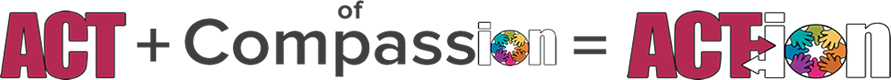
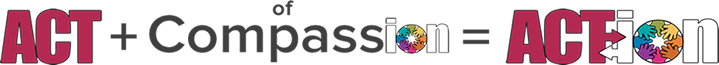
updates to home page layout

diff --git a/app/assets/stylesheets/_partials/home/_home.sass b/app/assets/stylesheets/_partials/home/_home.sass
@@ -27,6 +27,22 @@
   height: 80px
   background: image-url('action-slug.png') no-repeat
 
+#home-action-slug-wrap
+  margin: 70px auto 0 auto
+  width: 719px
+  height: 65px
+  position: relative
+  overflow: hidden
+  background: image-url('white-bg.png') repeat
+  +border-radius(5px)
+  padding: 30px
+
+#home-action-slug
+  width: 719px
+  height: 65px
+  background: image-url('action-slug.png') no-repeat
+  position: relative
+
 #home-create-action-btn
   height: 80px
   width: 224px
